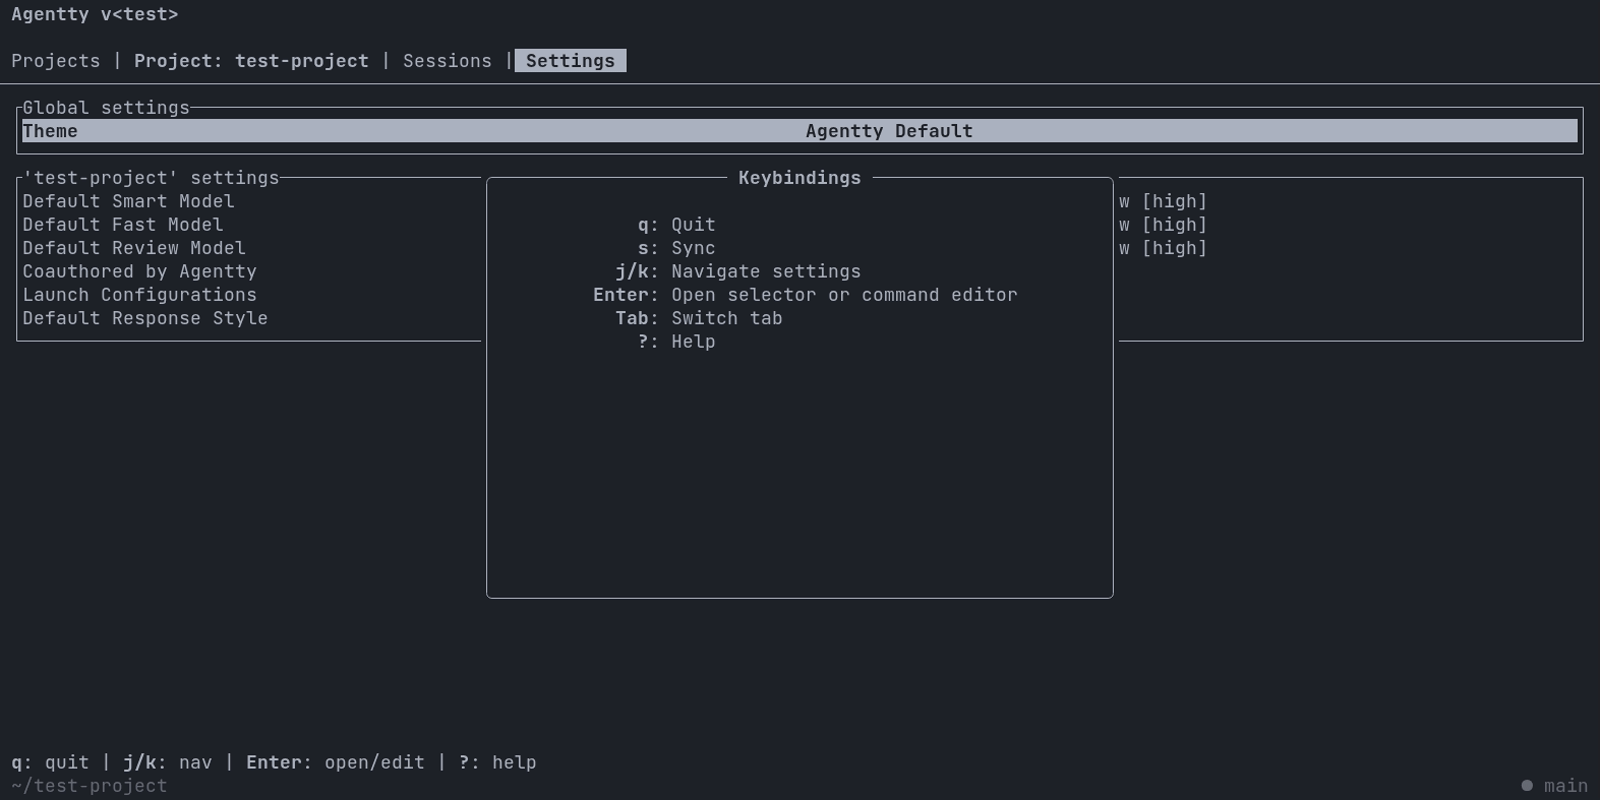
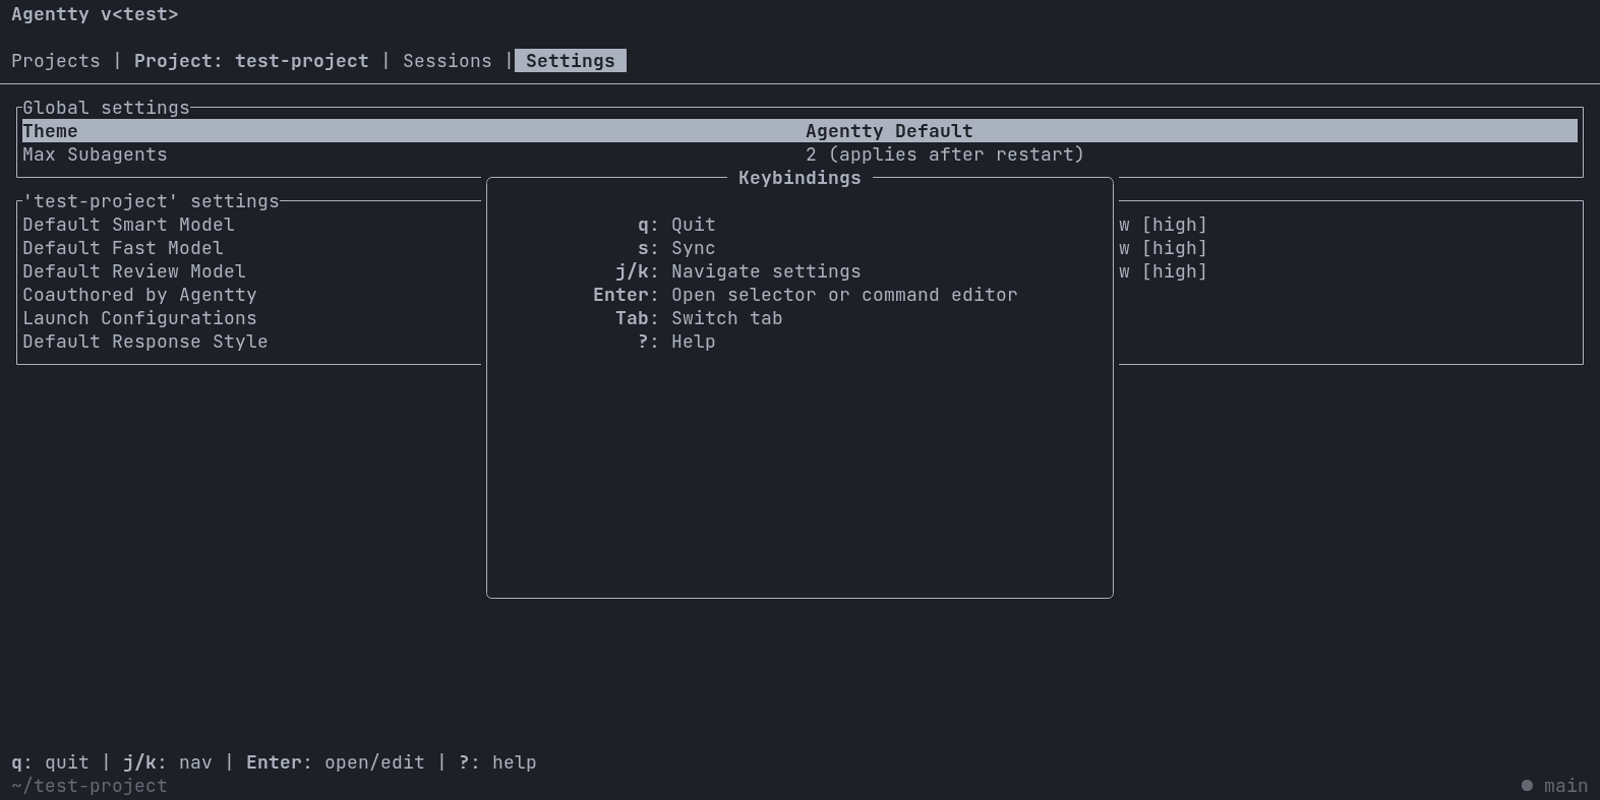
Refresh settings recordings and select settings rows by name in tests
The new Max Subagents row appears on every settings screen, so the
settings_content, settings_edit, settings_help, settings_navigation, and
settings_theme_switch GIFs, hash sidecars, and posters are regenerated
in the pinned recording container.

Settings tests now select rows by label (app tests) or by a shared
SettingsRow journey (E2E) instead of hard-coded positions, so adding a
row no longer requires renumbering scenarios. RuntimeConfig's subagent
override maps the existing cap instead of branching, and its test covers
a policy without a cap.

diff --git a/crates/agentty/tests/e2e/setting.rs b/crates/agentty/tests/e2e/setting.rs
@@ -10,29 +10,13 @@ use agentty::domain::agent::ReasoningLevel;
 use agentty::domain::theme::ColorTheme;
 use testty::assertion;
 use testty::frame::TerminalFrame;
-use testty::journey::Journey;
 use testty::proof::report::ProofReport;
 use testty::region::Region;
 use testty::scenario::Scenario;
-use testty::step::Step;
 
-use crate::common::{BuilderEnv, FeatureTest};
+use crate::common::{BuilderEnv, FeatureTest, SettingsRow};
 use crate::test_support::{persist_active_tab_for_test, persist_project_reasoning_levels_for_test};
 use crate::{common, selection};
-
-const MAX_SUBAGENTS_ROW_OFFSET: usize = 1;
-const DEFAULT_SMART_MODEL_ROW_OFFSET: usize = 2;
-const LAUNCH_CONFIGURATIONS_ROW_OFFSET: usize = 6;
-
-/// Moves from the initial Theme row to a known settings row.
-fn move_to_settings_row(name: &str, row_offset: usize) -> Journey {
-    let mut journey = Journey::new(format!("move_to_{name}"));
-    for _ in 0..row_offset {
-        journey = journey.step(Step::press_key("j"));
-    }
-
-    journey
-}
 
 /// Adds a Gemini CLI stub so the settings page exposes a real Gemini-owned
 /// model option.
@@ -419,9 +403,8 @@ fn settings_dropdown_scenario(scenario: Scenario) -> Scenario {
         .compose(&common::wait_for_agentty_startup())
         .wait_for_text("claude/claude-opus-5-5", 5000)
         .viewing_pause_ms(2000)
-        .compose(&move_to_settings_row(
-            "default_smart_model",
-            DEFAULT_SMART_MODEL_ROW_OFFSET,
+        .compose(&common::move_to_settings_row(
+            SettingsRow::DefaultSmartModel,
         ))
         .wait_for_stable_frame(200, 3000)
         .capture_labeled(
@@ -548,10 +531,7 @@ async fn settings_max_subagents_selects_limit() {
                     .compose(&common::wait_for_agentty_startup())
                     .wait_for_text("Max Subagents", 5000)
                     .capture_labeled("default_limit", "Max Subagents at its default")
-                    .compose(&move_to_settings_row(
-                        "max_subagents",
-                        MAX_SUBAGENTS_ROW_OFFSET,
-                    ))
+                    .compose(&common::move_to_settings_row(SettingsRow::MaxSubagents))
                     .press_key("Enter")
                     .wait_for_text("Select setting value", 3000)
                     .wait_for_stable_frame(200, 3000)
@@ -603,9 +583,8 @@ async fn settings_model_selector_separates_model_and_reasoning() {
                     .compose(&common::wait_for_agentty_startup())
                     .compose(&common::switch_to_tab("Sessions"))
                     .compose(&common::switch_to_tab("Settings"))
-                    .compose(&move_to_settings_row(
-                        "default_smart_model",
-                        DEFAULT_SMART_MODEL_ROW_OFFSET,
+                    .compose(&common::move_to_settings_row(
+                        SettingsRow::DefaultSmartModel,
                     ))
                     .wait_for_stable_frame(200, 3000)
                     .capture_labeled(
@@ -671,9 +650,8 @@ async fn settings_launch_configurations_list_editor() {
                     .compose(&common::switch_to_tab("Sessions"))
                     .compose(&common::switch_to_tab("Settings"))
                     .viewing_pause_ms(1500)
-                    .compose(&move_to_settings_row(
-                        "launch_configurations",
-                        LAUNCH_CONFIGURATIONS_ROW_OFFSET,
+                    .compose(&common::move_to_settings_row(
+                        SettingsRow::LaunchConfigurations,
                     ))
                     .wait_for_stable_frame(200, 3000)
                     .press_key("Enter")
@@ -777,9 +755,8 @@ async fn test_input_undo_redo() {
                     .compose(&common::wait_for_agentty_startup())
                     .compose(&common::switch_to_tab("Sessions"))
                     .compose(&common::switch_to_tab("Settings"))
-                    .compose(&move_to_settings_row(
-                        "launch_configurations",
-                        LAUNCH_CONFIGURATIONS_ROW_OFFSET,
+                    .compose(&common::move_to_settings_row(
+                        SettingsRow::LaunchConfigurations,
                     ))
                     .press_key("Enter")
                     .wait_for_stable_frame(200, 3000)

diff --git a/crates/agentty/tests/e2e/common.rs b/crates/agentty/tests/e2e/common.rs
@@ -1477,6 +1477,64 @@ fn tab_page_marker(tab_name: &str) -> &'static str {
     }
 }
 
+/// One Settings tab row, so scenarios select rows by name instead of `j`
+/// counts.
+#[derive(Clone, Copy, Debug, Eq, PartialEq)]
+pub(crate) enum SettingsRow {
+    Theme,
+    MaxSubagents,
+    DefaultSmartModel,
+    DefaultFastModel,
+    DefaultReviewModel,
+    CoauthoredByAgentty,
+    LaunchConfigurations,
+    DefaultResponseStyle,
+}
+
+impl SettingsRow {
+    /// Rows in on-screen order, global rows first. Keep aligned with the
+    /// Settings tab.
+    const ORDER: [Self; 8] = [
+        Self::Theme,
+        Self::MaxSubagents,
+        Self::DefaultSmartModel,
+        Self::DefaultFastModel,
+        Self::DefaultReviewModel,
+        Self::CoauthoredByAgentty,
+        Self::LaunchConfigurations,
+        Self::DefaultResponseStyle,
+    ];
+
+    /// Returns the `snake_case` name used for this row's journey.
+    fn journey_name(self) -> &'static str {
+        match self {
+            Self::Theme => "theme",
+            Self::MaxSubagents => "max_subagents",
+            Self::DefaultSmartModel => "default_smart_model",
+            Self::DefaultFastModel => "default_fast_model",
+            Self::DefaultReviewModel => "default_review_model",
+            Self::CoauthoredByAgentty => "coauthored_by_agentty",
+            Self::LaunchConfigurations => "launch_configurations",
+            Self::DefaultResponseStyle => "default_response_style",
+        }
+    }
+}
+
+/// Moves the Settings selection from the initial `Theme` row to `row` by
+/// pressing `j`.
+pub(crate) fn move_to_settings_row(row: SettingsRow) -> Journey {
+    let row_offset = SettingsRow::ORDER
+        .iter()
+        .position(|candidate| *candidate == row)
+        .unwrap_or_default();
+    let mut journey = Journey::new(format!("move_to_{}", row.journey_name()));
+    for _ in 0..row_offset {
+        journey = journey.step(Step::press_key("j"));
+    }
+
+    journey
+}
+
 /// Open the quit confirmation dialog by pressing `q`.
 ///
 /// Waits for the dialog to render with a stable frame.

diff --git a/crates/agentty/src/app/setting_test/prompt_test.rs b/crates/agentty/src/app/setting_test/prompt_test.rs
@@ -11,7 +11,7 @@ async fn confirm_launch_configuration_input_adds_trimmed_command_and_persists_va
     // Arrange
     let (services, project_id) = test_services().await;
     let mut manager = settings_manager(&services, project_id).await;
-    select_row(&mut manager, 6);
+    select_row(&mut manager, "Launch Configurations");
     manager.handle_enter();
     manager.start_adding_launch_configuration();
 
@@ -43,7 +43,7 @@ async fn confirm_launch_configuration_input_edits_selected_command_and_persists_
         "cargo test\nnpm run dev",
     )
     .await;
-    select_row(&mut manager, 6);
+    select_row(&mut manager, "Launch Configurations");
     manager.handle_enter();
     manager.next_launch_configuration_list_editor_item();
     manager.start_editing_selected_launch_configuration();
@@ -84,7 +84,7 @@ async fn confirm_launch_configuration_input_drops_empty_edited_command() {
         "cargo test\nnpm run dev",
     )
     .await;
-    select_row(&mut manager, 6);
+    select_row(&mut manager, "Launch Configurations");
     manager.handle_enter();
     manager.start_editing_selected_launch_configuration();
 
@@ -112,7 +112,7 @@ async fn confirm_launch_configuration_input_drops_empty_edited_command() {
 fn footer_hint_returns_launch_configuration_input_hint_when_input_is_active() {
     // Arrange
     let mut manager = new_settings_manager();
-    select_row(&mut manager, 6);
+    select_row(&mut manager, "Launch Configurations");
     manager.handle_enter();
     manager.start_adding_launch_configuration();
 
@@ -131,7 +131,7 @@ fn cancel_launch_configuration_input_returns_to_browse_without_changing_value() 
     // Arrange
     let mut manager = new_settings_manager();
     manager.fixture_view_mut().launch_configuration = "old command".to_string();
-    select_row(&mut manager, 6);
+    select_row(&mut manager, "Launch Configurations");
     manager.handle_enter();
     manager.start_adding_launch_configuration();
     manager.apply_launch_configuration_input_command(InputCommand::Insert('n'));

diff --git a/crates/agentty/src/app/setting_test/setting_test.rs b/crates/agentty/src/app/setting_test/setting_test.rs
@@ -412,7 +412,7 @@ async fn selector_dropdown_selects_coauthor_setting_and_persists_value() {
     // Arrange
     let (services, project_id) = test_services().await;
     let mut manager = settings_manager(&services, project_id).await;
-    select_row(&mut manager, 5);
+    select_row(&mut manager, "Coauthored by Agentty");
 
     // Act
     manager.handle_enter();
@@ -438,7 +438,7 @@ async fn selector_dropdown_selects_theme_setting_and_persists_value() {
     // Arrange
     let (services, project_id) = test_services().await;
     let mut manager = settings_manager(&services, project_id).await;
-    select_row(&mut manager, 0);
+    select_row(&mut manager, "Theme");
 
     // Act
     manager.handle_enter();
@@ -474,7 +474,7 @@ async fn selector_dropdown_selects_max_subagents_and_persists_global_value() {
     // Arrange
     let (services, project_id) = test_services().await;
     let mut manager = settings_manager(&services, project_id).await;
-    select_row(&mut manager, 1);
+    select_row(&mut manager, "Max Subagents");
 
     // Act
     manager.handle_enter();
@@ -558,7 +558,7 @@ async fn selector_dropdown_persists_last_used_flag_and_explicit_smart_model() {
         .await
         .expect("failed to persist smart selector fixture");
     let mut manager = settings_manager(&services, project_id).await;
-    select_row(&mut manager, 2);
+    select_row(&mut manager, "Default Smart Model");
 
     // Act
     manager.handle_enter();

diff --git a/crates/agentty/tests/e2e/session/lifecycle.rs b/crates/agentty/tests/e2e/session/lifecycle.rs
@@ -25,7 +25,7 @@ use super::fixture::{
     seed_review_ready_session, seed_running_stop_session, seed_session_title_candidate_project,
     seed_sessions_tab,
 };
-use crate::common::{BuilderEnv, FeatureTest, ReleaseGate, SessionSeed};
+use crate::common::{BuilderEnv, FeatureTest, ReleaseGate, SessionSeed, SettingsRow};
 use crate::{common, test_support};
 
 /// Seeds one review-ready session with a persisted reasoning level and timer.
@@ -451,10 +451,9 @@ async fn existing_session_keeps_persisted_reasoning_label() -> E2eResult {
                     .compose(&common::switch_to_tab("Sessions"))
                     .wait_for_text("Running session stop", 5000)
                     .compose(&common::switch_to_tab("Settings"))
-                    .press_key("j")
-                    .press_key("j")
-                    .press_key("j")
-                    .press_key("j")
+                    .compose(&common::move_to_settings_row(
+                        SettingsRow::DefaultReviewModel,
+                    ))
                     .press_key("Enter")
                     .press_key("Enter")
                     .press_key("j")

diff --git a/crates/agentty/src/app/setting_test/transition_test.rs b/crates/agentty/src/app/setting_test/transition_test.rs
@@ -35,7 +35,7 @@ fn footer_hint_returns_selector_dropdown_hint_when_dropdown_is_open() {
 fn next_and_previous_do_not_move_selection_while_launch_configuration_editor_is_open() {
     // Arrange
     let mut manager = new_settings_manager();
-    select_row(&mut manager, 6);
+    select_row(&mut manager, "Launch Configurations");
     manager.handle_enter();
 
     // Act
@@ -57,7 +57,7 @@ fn next_and_previous_do_not_move_selection_while_launch_configuration_editor_is_
 fn next_and_previous_do_not_move_selection_while_selector_dropdown_is_open() {
     // Arrange
     let mut manager = new_settings_manager();
-    select_row(&mut manager, 0);
+    select_row(&mut manager, "Theme");
     manager.handle_enter();
 
     // Act
@@ -98,7 +98,7 @@ fn handle_enter_opens_launch_configuration_list_editor() {
     // Arrange
     let mut manager = new_settings_manager();
     manager.fixture_view_mut().launch_configuration = "nvim .".to_string();
-    select_row(&mut manager, 6);
+    select_row(&mut manager, "Launch Configurations");
 
     // Act
     manager.handle_enter();

diff --git a/crates/agentty/tests/e2e/session/harness.rs b/crates/agentty/tests/e2e/session/harness.rs
@@ -15,7 +15,7 @@ use wiremock::{Mock, MockServer, ResponseTemplate};
 
 use super::fixture::E2eResult;
 use crate::common;
-use crate::common::FeatureTest;
+use crate::common::{FeatureTest, SettingsRow};
 
 /// Answer the scripted provider returns after the write tool succeeds.
 const HARNESS_ANSWER: &str = "Created notes.txt through the harness.";
@@ -732,11 +732,11 @@ async fn cheap_qwen_provider() -> MockServer {
 
 /// Opens the Default Fast Model selector on the Settings tab.
 fn open_fast_model_selector() -> Journey {
-    Journey::new("open_fast_model_selector")
+    let mut journey = common::move_to_settings_row(SettingsRow::DefaultFastModel);
+    journey.name = "open_fast_model_selector".to_string();
+
+    journey
         .with_description("Open the Default Fast Model selector in Settings")
-        .step(Step::press_key("j"))
-        .step(Step::press_key("j"))
-        .step(Step::press_key("j"))
         .step(Step::wait_for_stable_frame(200, 3000))
         .step(Step::press_key("Enter"))
         .step(Step::wait_for_text("Select model", 3000))

diff --git a/crates/agentty/src/app/setting_test/persistence_test.rs b/crates/agentty/src/app/setting_test/persistence_test.rs
@@ -16,7 +16,7 @@ async fn move_selected_launch_configuration_down_persists_reordered_commands() {
         "cargo test\nnpm run dev\nlazygit",
     )
     .await;
-    select_row(&mut manager, 6);
+    select_row(&mut manager, "Launch Configurations");
     manager.handle_enter();
 
     // Act
@@ -47,7 +47,7 @@ async fn selector_dropdown_selects_default_response_style_and_persists_value() {
     // Arrange
     let (services, project_id) = test_services().await;
     let mut manager = settings_manager(&services, project_id).await;
-    select_row(&mut manager, 7);
+    select_row(&mut manager, "Default Response Style");
 
     // Act
     manager.handle_enter();
@@ -75,7 +75,7 @@ async fn selector_dropdown_selects_default_response_style_and_persists_value() {
 fn navigation_actions_do_not_request_launch_configuration_persistence() {
     // Arrange
     let mut manager = new_settings_manager();
-    select_row(&mut manager, 6);
+    select_row(&mut manager, "Launch Configurations");
     manager.handle_enter();
 
     // Act

diff --git a/crates/agentty/tests/e2e/selection.rs b/crates/agentty/tests/e2e/selection.rs
@@ -8,7 +8,7 @@ use testty::proof::report::ProofReport;
 use testty::region::Region;
 use testty::scenario::Scenario;
 
-use crate::common::{BuilderEnv, FeatureTest, SessionSeed};
+use crate::common::{BuilderEnv, FeatureTest, SessionSeed, SettingsRow};
 use crate::{common, test_support};
 
 type E2eResult = Result<(), Box<dyn std::error::Error>>;
@@ -95,8 +95,10 @@ fn selection_scenario(scenario: Scenario, theme_navigation: &str) -> Scenario {
         .capture_labeled("next_theme", "Highlight moved to another theme option")
         .press_key("Esc")
         .wait_for_stable_frame(200, 3000);
-    let scenario = (0..6).fold(scenario, |scenario, _| scenario.press_key("j"));
     scenario
+        .compose(&common::move_to_settings_row(
+            SettingsRow::LaunchConfigurations,
+        ))
         .press_key("Enter")
         .wait_for_text("J/K: reorder", 5000)
         .capture_labeled("launch_editor", "Selected launch command")

diff --git a/crates/agentty/src/app/setting_test/support_test.rs b/crates/agentty/src/app/setting_test/support_test.rs
@@ -259,8 +259,14 @@ impl SettingsTestHarness {
     }
 }
 
-/// Selects one settings row through the screen navigation action.
-pub(super) fn select_row(manager: &mut SettingsTestHarness, row_index: usize) {
+/// Selects the settings row with `label` through the screen navigation
+/// action, so tests do not depend on row positions.
+pub(super) fn select_row(manager: &mut SettingsTestHarness, label: &str) {
+    let row_index = manager
+        .settings_rows()
+        .iter()
+        .position(|(row_label, _)| *row_label == label)
+        .expect("settings row label should exist");
     for _ in 0..row_index {
         manager.next();
     }

diff --git a/crates/ag-worker/src/provider.rs b/crates/ag-worker/src/provider.rs
@@ -57,9 +57,7 @@ impl RuntimeConfig {
     #[must_use]
     pub fn with_max_concurrent_subagents(mut self, limit: NonZeroUsize) -> Self {
         for policy in self.policies.values_mut() {
-            if policy.max_concurrent_subagents.is_some() {
-                policy.max_concurrent_subagents = Some(limit);
-            }
+            policy.max_concurrent_subagents = policy.max_concurrent_subagents.map(|_| limit);
         }
 
         self

diff --git a/crates/ag-worker/src/provider_test.rs b/crates/ag-worker/src/provider_test.rs
@@ -17,7 +17,8 @@ use crate::{
 #[test]
 fn subagent_limit_replaces_only_policies_that_enforce_one() {
     // Arrange
-    let original = RuntimeConfig::default();
+    let original = RuntimeConfig::default()
+        .with_execution_policy(AgentKind::Gemini, ExecutionPolicy::default());
     let limit = NonZeroUsize::new(8).expect("limit is non-zero");
 
     // Act
